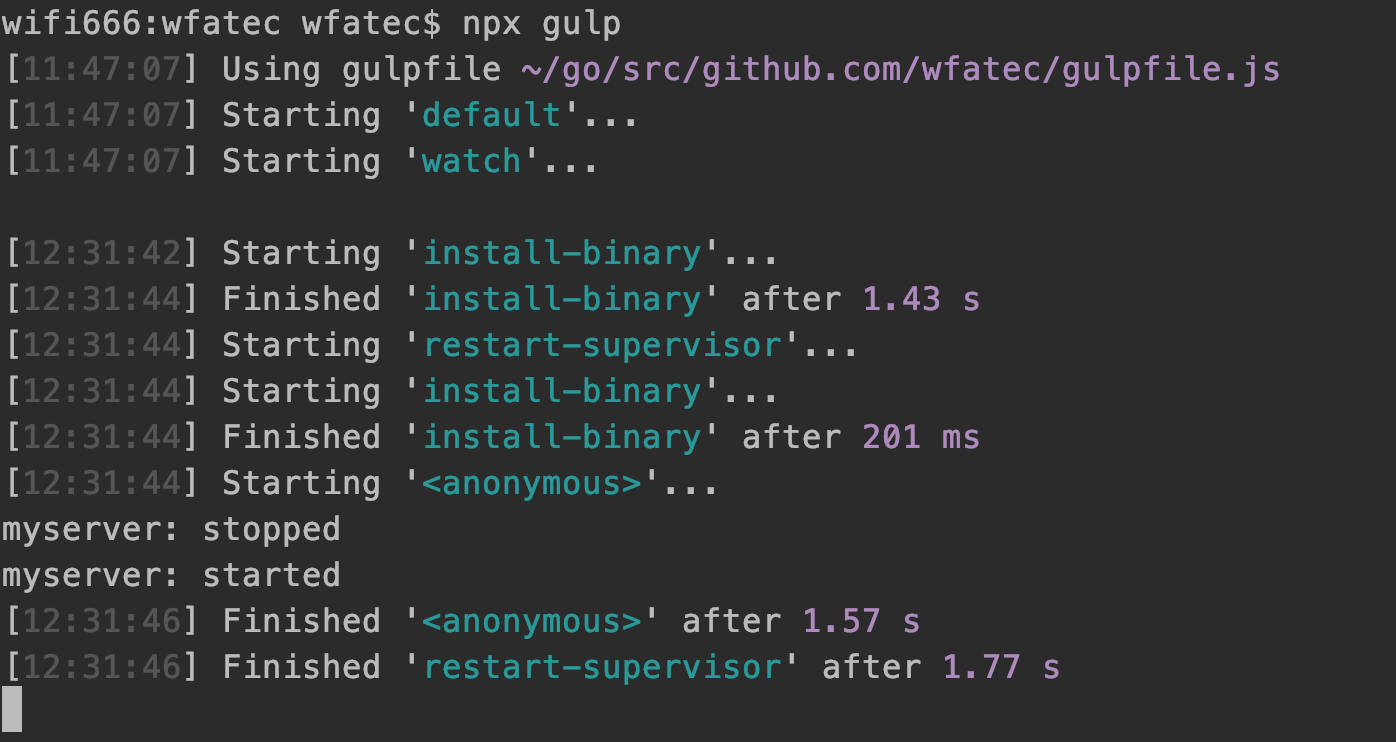
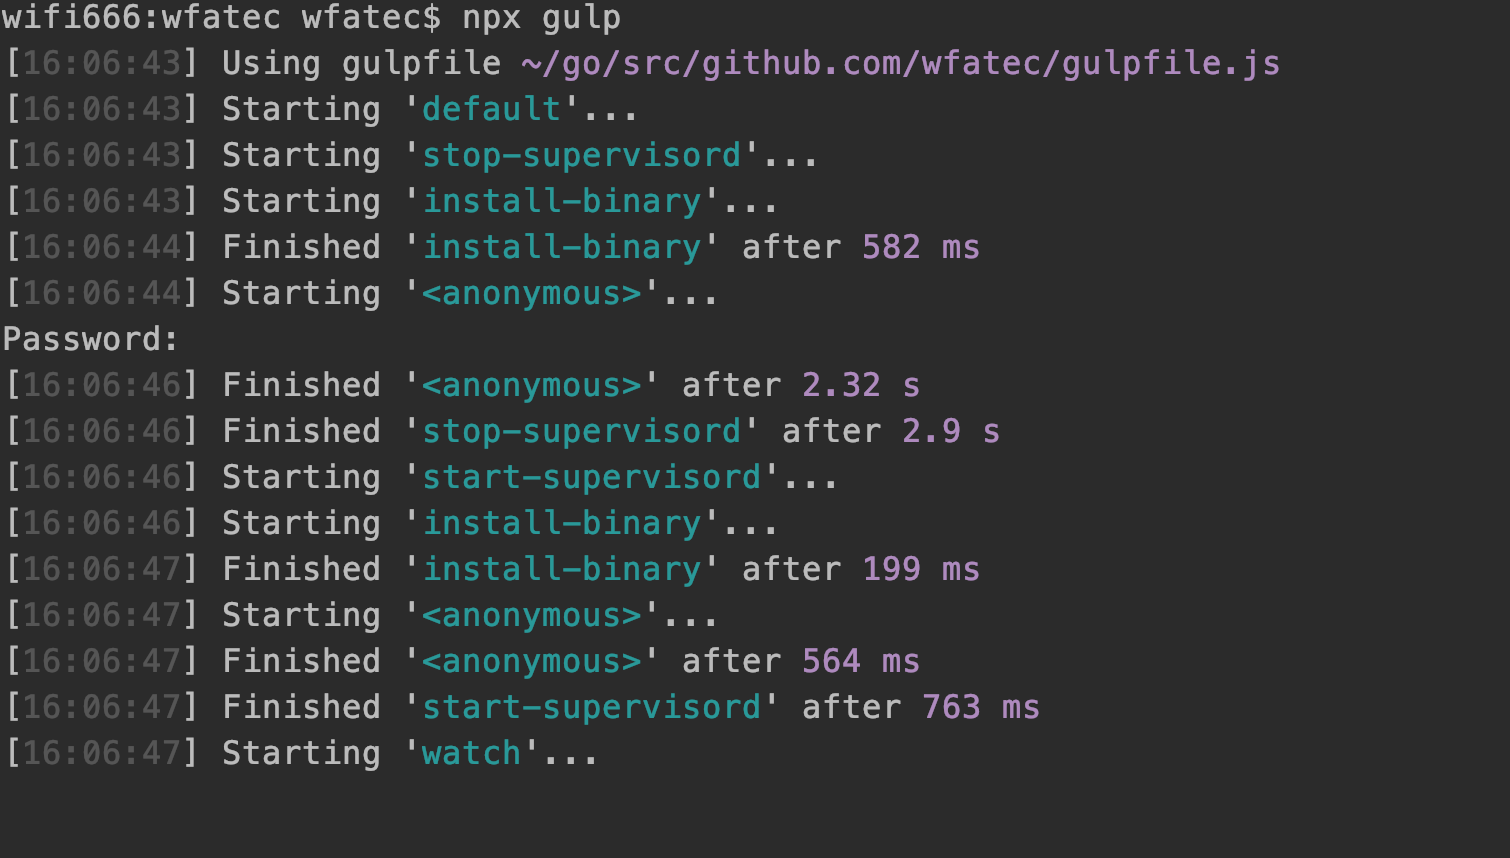
update Gulp

diff --git a/maintenance/gulp/README.md b/maintenance/gulp/README.md
@@ -201,4 +201,6 @@ npx gulp
 
 ![gulpresult.png](./assets/gulpresult.png)
 
-可见，每次修改 `romanserver` 下的文件时，都会执行我们配置好的工作流，实现了开发过程中的自动化构建流程
+可见，每次修改 `romanserver` 下的文件时，都会执行我们配置好的工作流，实现了开发过程中的自动化构建流程。
+
+**注意**：由于关闭 supervisor 时需要手动输入密码进行确认，所以会有一个密码输入确认操作，之后的 watch 阶段将完全由 Gulp 自动实现。
